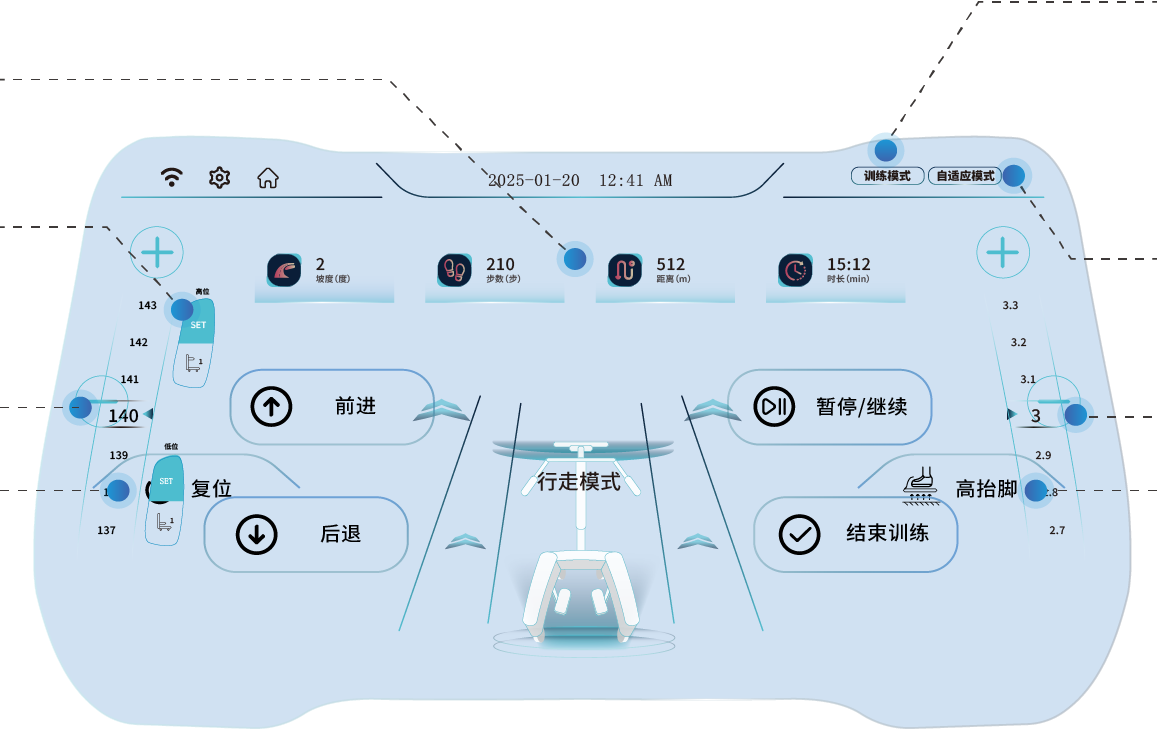
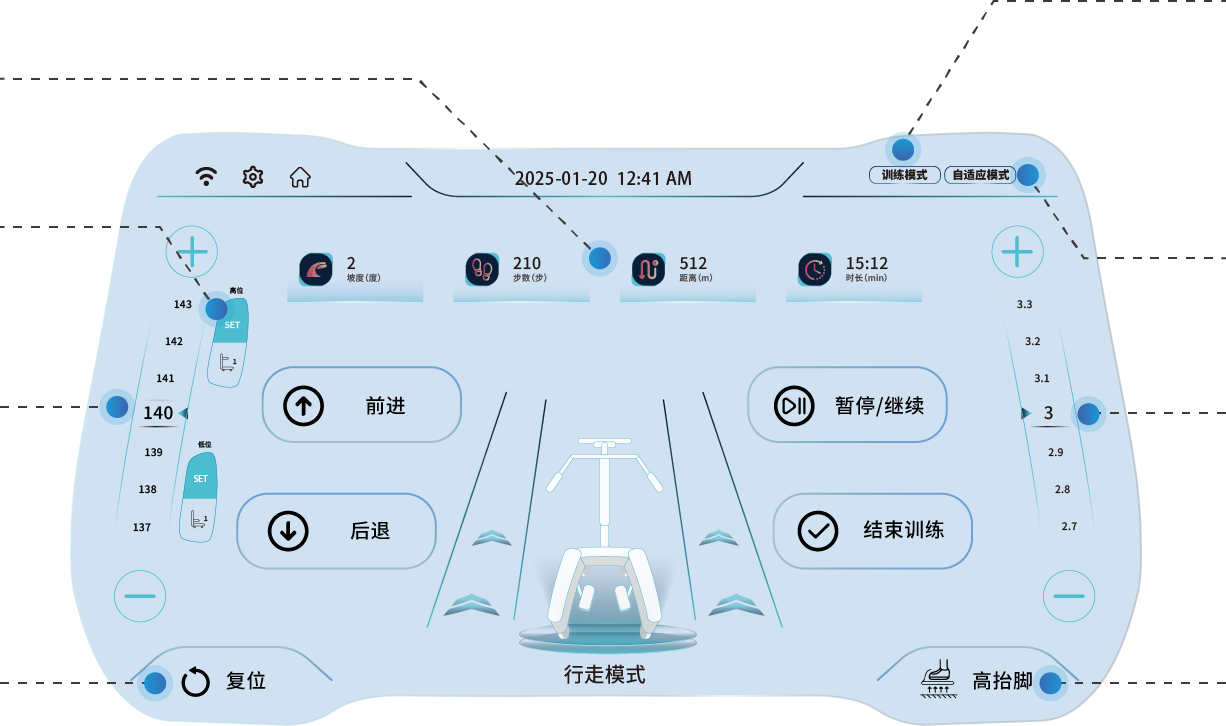
修正详情页面两个背景图，以及服务支持的页面下方的异常白色区域

diff --git a/styles.css b/styles.css
@@ -1084,6 +1084,37 @@ a {
   object-fit: contain;
 }
 
+@media (min-width: 1025px) {
+  .medical-edition-section {
+    position: relative;
+    height: min(900px, 46.875vw);
+    min-height: 0;
+    overflow: hidden;
+    padding: 0;
+    background: #eef6ff
+      url("./assets/product-medical/edition-bg.png")
+      center / 100% 100% no-repeat;
+  }
+
+  .medical-edition-section > div {
+    position: absolute;
+    left: 6.25%;
+    top: 50%;
+    z-index: 1;
+    transform: translateY(-50%);
+  }
+
+  .medical-edition-section img {
+    position: absolute;
+    top: 50%;
+    right: clamp(32px, 3.2vw, 62px);
+    width: min(42vw, 800px);
+    max-height: none;
+    margin: 0;
+    transform: translateY(-50%);
+  }
+}
+
 .core-grid {
   width: min(1320px, 100%);
   margin: 0 auto;
@@ -1999,6 +2030,7 @@ a {
 }
 
 .after-sales-page {
+  display: flow-root;
   background: #f1f2f3;
 }
 
@@ -2106,6 +2138,7 @@ a {
 }
 
 .downloads-page {
+  display: flow-root;
   background: #f1f2f3;
 }
 

diff --git a/product-medical.html b/product-medical.html
@@ -20,7 +20,7 @@
         </div>
       </section>
 
-      <section class="edition-section">
+      <section class="edition-section medical-edition-section">
         <div>
           <span>MEDICAL</span>
           <h2>医疗专业版</h2>
